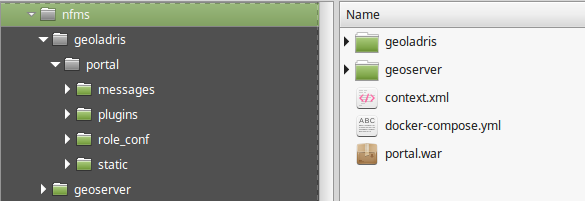
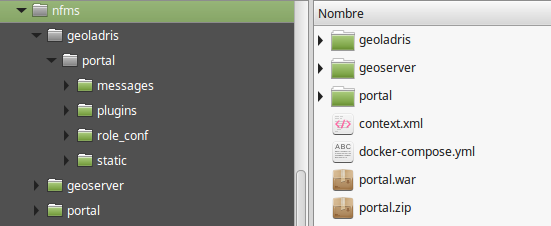
Fix server part

diff --git a/docs/server/config_servlet.md b/docs/server/config_servlet.md
@@ -109,8 +109,9 @@ import javax.servlet.http.HttpServletRequest;
 import javax.servlet.http.HttpServletResponse;
 
 import org.geoladris.Geoladris;
+import org.geoladris.config.Config;
 
-public class GuardaCentroServlet extends HttpServlet {
+public class GuardarCentroServlet extends HttpServlet {
 
   @Override
   protected void doGet(HttpServletRequest req, HttpServletResponse resp)
@@ -136,9 +137,9 @@ public class GuardaCentroServlet extends HttpServlet {
 Ahora, para probarlo tendremos que crear un plugin cliente con un botón que ,cuando se pulse, llame al servlet que acabamos de crear enviando el centro del mapa en ese momento. Bastará crear un nuevo plugin con el siguiente módulo (para más detalles ver apartados sobre [cliente](../client/hello_world.md)):
 
 ```js
-define([ "message-bus", "botonera/crear", "map" ], function(bus, botonera, map) {
-
+define([ "message-bus", "botonera/crear", "ol2/map" ], function(bus, botonera, olmap) {
   botonera("guardar centro", function() {
+    var map = olmap.getMap();
     var center = map.getCenter();
     center.transform(new OpenLayers.Projection("EPSG:900913"), new OpenLayers.Projection("EPSG:4326"));
     var zoomLevel = map.getZoom();
@@ -153,7 +154,7 @@ define([ "message-bus", "botonera/crear", "map" ], function(bus, botonera, map) 
 });
 ```
 
-Por último, deberíamos poder instalar nuestro plugin, empaquetar la aplicación y reiniciar el portal para poder utilizar nuestro botón enlazado con nuestro servlet.
+Por último, deberíamos poder instalar empaquetar nuestro plugin y reiniciar el portal para poder utilizar nuestro botón enlazado con nuestro servlet.
 
 ## Manejando errores
 
@@ -195,8 +196,9 @@ import javax.servlet.http.HttpServletRequest;
 import javax.servlet.http.HttpServletResponse;
 
 import org.geoladris.Geoladris;
+import org.geoladris.config.Config;
 
-public class GuardaCentroServlet extends HttpServlet {
+public class GuardarCentroServlet extends HttpServlet {
 
   @Override
   protected void doGet(HttpServletRequest req, HttpServletResponse resp)
@@ -219,7 +221,7 @@ public class GuardaCentroServlet extends HttpServlet {
       properties.load(inputStream);
       inputStream.close();
     } catch (IOException e) {
-      resp.sendError(SC_INTERNAL_SERVER_ERROR, "Error grave en el servidor. Contacte al administrador");
+      resp.sendError(HttpServletResponse.SC_INTERNAL_SERVER_ERROR, "Error grave en el servidor. Contacte al administrador");
       return;
     }
 
@@ -232,7 +234,7 @@ public class GuardaCentroServlet extends HttpServlet {
       properties.store(outputStream, null);
       outputStream.close();
     } catch (IOException e) {
-      resp.sendError(SC_INTERNAL_SERVER_ERROR, "Error grave en el servidor. Contacte al administrador");
+      resp.sendError(HttpServletResponse.SC_INTERNAL_SERVER_ERROR, "Error grave en el servidor. Contacte al administrador");
       return;
     }
   }

diff --git a/docs/server/hello_world.md b/docs/server/hello_world.md
@@ -68,40 +68,28 @@ Llegados a este punto tenemos que empaquetar nuestro plugin y desplegarlo con el
 
 ```bash
 cd hola-mundo
-mvn install
+mvn package
 ```
 
-Posteriormente, modificaremos el fichero `pom.xml` de la aplicación `demo` del repositorio `apps` para incluir nuestro plugin:
-
-```xml
-  ...
-  <dependencies>
-    ...
-    <dependency>
-      <groupId>org.fao.unredd</groupId>
-      <artifactId>hola-mundo</artifactId>
-      <version>1.0-SNAPSHOT</version>
-    </dependency>
-  </dependencies>
-  ...
-```
-
-Finalmente, empaquetaremos la aplicación (esto puede tardar un poco) y la desplegaremos en nuestro entorno:
+Posteriormente, tendremos que copiar nuestro plugin en el directorio de plugins de la aplicación, dentro de Tomcat:
 
 ```bash
-cd ../demo
-mvn package -Dskip.yarn
-cp target/demo.war ../app/portal.war
-cd ..
-docker-compose restart
+cp target/hola-mundo-1.0-SNAPSHOT.jar ../portal/WEB-INF/lib
 ```
 
-Si hemos hecho todo correctamente será posible, previo reinicio del servidor, acceder a la URL [http://localhost/portal/holamundo](http://localhost/portal/holamundo) y obtener un error `405: Method Not Allowed` (método no permitido). Podemos comprobar que el mensaje es distinto si accedemos a una URL inexistente, como [http://localhost/portal/holamundonoexiste](http://localhost/portal/holamundonoexiste), donde obtenemos `404: Not Found` (no encontrado).
+y luego, reiniciaremos el portal:
+
+```bash
+cd ..
+docker-compose restart portal
+```
+
+Si hemos hecho todo correctamente será posible, previo reinicio del servidor, acceder a la URL [http://localhost/portal/holamundo](http://localhost:8082/portal/holamundo) y obtener un error `405: Method Not Allowed` (método no permitido). Podemos comprobar que el mensaje es distinto si accedemos a una URL inexistente, como [http://localhost/portal/holamundonoexiste](http://localhost:8082/portal/holamundonoexiste), donde obtenemos `404: Not Found` (no encontrado).
 
 Esto quiere decir que el servlet está bien instalado. Sólo hace falta implementar el método GET, que es el que está pidiendo el navegador:
 
 ```java
-package org.fao.unredd.portal;
+package org.fao.unredd;
 
 import java.io.IOException;
 
@@ -119,7 +107,7 @@ public class HolaMundoServlet extends HttpServlet{
 }
 ```
 
-Si volvemos a instalar en local, empaquetar y desplegar la aplicación, el servidor debe devolver una página en blanco, pero no debe dar un error. Se llega así al punto en el que leeremos el parámetro y en función de este devolveremos un XML o texto plano:
+Si volvemos a instalar en local, empaquetar y desplegar el plugin, el servidor debe devolver una página en blanco, pero no debe dar un error. Se llega así al punto en el que leeremos el parámetro y en función de este devolveremos un XML o texto plano:
 
 ```java
 package org.fao.unredd;

diff --git a/docs/setup.md b/docs/setup.md
@@ -79,12 +79,12 @@ mkdir nfms/geoladris
 
 Después, habrá que descargarse los siguientes ficheros y copiarlos en el directorio de trabajo:
 
-* [docker-compose.yml](https://nfms4redd.github.io/webinar-programacion/static/docker-compose.yml)
-* [context.xml](https://nfms4redd.github.io/webinar-programacion/static/context.xml)
-* [portal.zip](https://nfms4redd.github.io/webinar-programacion/static/portal.zip)
-* [demo.war](https://oss.sonatype.org/content/repositories/snapshots/com/github/geoladris/apps/demo/7.0.0-SNAPSHOT/demo-7.0.0-20180115.121345-1.war)
+* [docker-compose.yml](static/docker-compose.yml)
+* [context.xml](static/context.xml)
+* [portal.zip](static/portal.zip)
+* [demo.war](https://repo1.maven.org/maven2/com/github/geoladris/apps/demo/7.0.0/demo-7.0.0.war)
 
-Tras la descarga, habrá que renombrar el fichero `demo-*.war` a `portal.war` y descomprimir el fichero `portal.zip` dentro del directorio de configuración `geoladris`. El resultado debería ser el siguiente:
+Tras la descarga, habrá que descomprimir el fichero `demo-*.war` (realmente es un fichero `.zip` con la extensión cambiada) en un directorio `portal` y descomprimir el fichero `portal.zip` dentro del directorio de configuración `geoladris`. El resultado debería ser el siguiente:
 
 ![](static/workdir.png)
 
@@ -92,14 +92,14 @@ Finalmente, bastará con arrancar el sistema con `docker-compose`:
 
 ```bash
 cd ~/nfms
-docker-compose up
+docker-compose up -d
 ```
 
 O, en Windows, arrancando `Docker for Windows/Docker Toolbox`:
 
 ```bash
-cd <whatever>
-docker-compose up
+cd <directorio>
+docker-compose up -d
 ```
 
-Para comprobar que la instalación y el arranque se han completado con éxito podemos acceder al portal en [http://localhost/portal](http://localhost/portal) y a GeoServer en [http://localhost:8080/geoserver](http://localhost:8080/geoserver).
+Para comprobar que la instalación y el arranque se han completado con éxito podemos acceder al portal en [http://localhost:8082/portal](http://localhost:8082/portal) y a GeoServer en [http://localhost:8081/geoserver](http://localhost:8081/geoserver).

diff --git a/docs/server/db_servlet.md b/docs/server/db_servlet.md
@@ -7,13 +7,13 @@ Para ello, primero deberemos cargar las provincias en la base de datos. Nos desc
 Luego ejecutamos el comando para cargarlos en la base de datos:
 
 ```bash
-psql -h localhost -p 5432 -U admin -d nfms -f provincias.sql
+psql -h localhost -p 65432 -U admin -d nfms -f provincias.sql
 ```
 
 y comprobamos que se hayan cargado correctamente:
 
 ```bash
-psql -h localhost -p 5432 -U admin -d nfms -c 'SELECT COUNT(*) FROM provincias'
+psql -h localhost -p 65432 -U admin -d nfms -c 'SELECT COUNT(*) FROM provincias'
 ```
 
 ## Creando el proyecto
@@ -21,7 +21,7 @@ psql -h localhost -p 5432 -U admin -d nfms -c 'SELECT COUNT(*) FROM provincias'
 De nuevo, creamos el proyecto  y la configuración de nuestro servlet:
 
 ```bash
-$ mvn archetype:generate -DgroupId=org.fao.unredd -DartifactId=guardar-centro -DarchetypeArtifactId=maven-archetype-quickstart -DinteractiveMode=false
+$ mvn archetype:generate -DgroupId=org.fao.unredd -DartifactId=provincias -DarchetypeArtifactId=maven-archetype-quickstart -DinteractiveMode=false
 ```
 
 con su configuración en el fichero `pom.xml`:
@@ -211,7 +211,20 @@ define([ "message-bus" ], function(bus) {
 y los siguientes estilos:
 
 ```css
+div#lista_provincias {
+    position: fixed;
+    bottom: 25;
+    padding: 10px;
+    left: 0;
+    z-index: 999;
+    background: white;
+    max-height: 200px;
+    overflow-y: auto;
+}
 
+div#lista_provincias>div {
+    padding: 10px;
+}
 ```
 
 Por último, deberíamos poder instalar nuestro plugin, empaquetar la aplicación y reiniciar el portal para poder utilizar nuestro botón enlazado con nuestro servlet.
